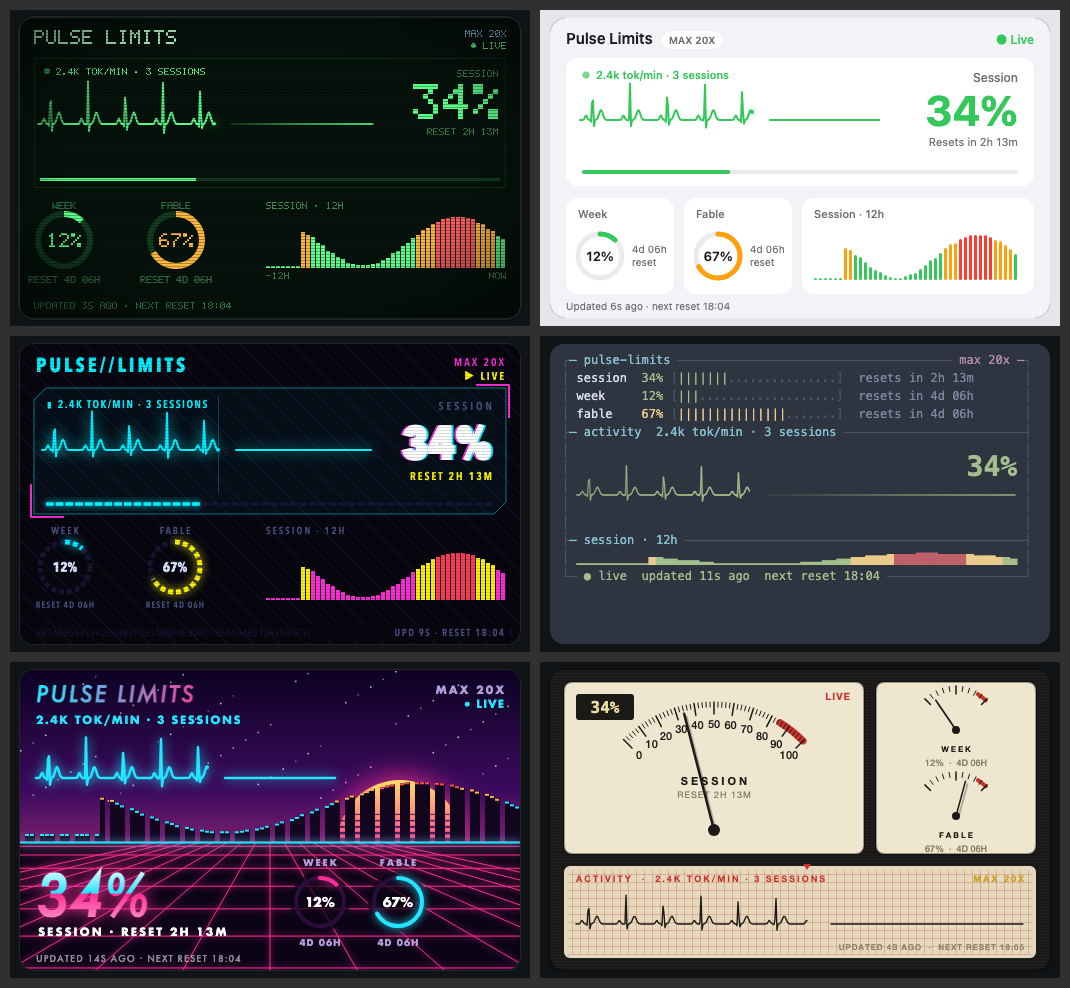
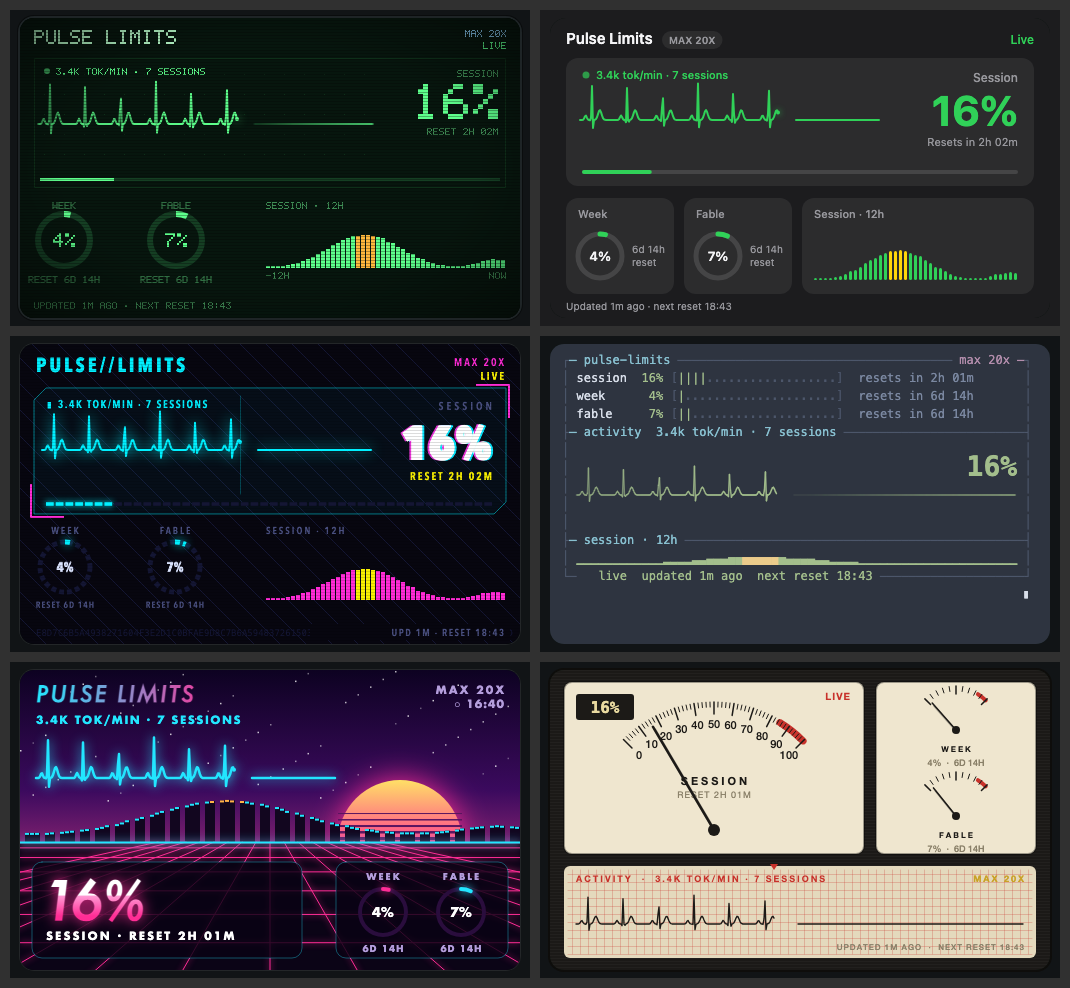
docs: README with screenshots; synth theme readouts on panels

diff --git a/panel.html b/panel.html
@@ -487,19 +487,26 @@
     const lab = activityLabel();
     if (lab !== null) txt(lab, 16, 54, '600 11px ' + F, busy() ? P.cyan : P.lav, 'left', 1.5);
 
-    const big = alive ? sessionPct + '%' : '--', bf = 'italic 900 56px ' + F;
-    const cg = ctx.createLinearGradient(0, 196, 0, 250); cg.addColorStop(0, '#ffffff'); cg.addColorStop(.5, P.cyan); cg.addColorStop(.52, P.pink); cg.addColorStop(1, '#ff8ac8');
-    ctx.shadowColor = P.pink; ctx.shadowBlur = 18; txt(big, 16, 246, bf, cg); ctx.shadowBlur = 0;
-    txt(alive ? 'SESSION · ' + resetText(session) : 'NO SIGNAL', 18, 266, '600 11px ' + F, alive ? P.white : '#ff4d4d', 'left', 2);
-    others.slice(0, 3).forEach((wd, i) => {
-      const cx = W - 200 + i * 78, cy = 232, pct = Math.round(wd.pct);
-      ctx.fillStyle = 'rgba(11,4,22,.7)'; ctx.beginPath(); ctx.arc(cx, cy, 30, 0, Math.PI * 2); ctx.fill();
-      ring(cx, cy, 24, pct, { track: '#2a0d3d', color: i % 2 ? P.cyan : P.pink, width: 4, cap: 'round', glow: 8 });
-      txt(pct + '%', cx, cy + 5, '700 13px ' + F, P.white, 'center');
-      txt(wd.label, cx, cy - 36, '600 9px ' + F, P.lav, 'center', 2);
-      txt(span(resetMs(wd)), cx, cy + 44, '600 9px ' + F, P.lav, 'center', 1);
-    });
-    txt(alive ? 'UPDATED ' + short(ageSec()) + ' AGO · NEXT RESET ' + nextReset() : (D.hint || ''), 16, H - 8, '500 9px ' + F, 'rgba(255,255,255,.55)', 'left', 1);
+    // readouts sit on dark glass panels so the grid never runs through the numbers
+    const panel = (x, y, w, h) => { ctx.fillStyle = 'rgba(8,2,20,.82)'; rr(x, y, w, h, 10); ctx.fill(); ctx.strokeStyle = 'rgba(34,230,255,.35)'; ctx.lineWidth = 1; ctx.stroke(); };
+    panel(12, 192, 270, 96);
+    const big = alive ? sessionPct + '%' : '--', bf = 'italic 900 52px ' + F;
+    const cg = ctx.createLinearGradient(0, 200, 0, 246); cg.addColorStop(0, '#ffffff'); cg.addColorStop(.55, '#ffffff'); cg.addColorStop(.56, '#ff9ad4'); cg.addColorStop(1, P.pink);
+    ctx.shadowColor = P.pink; ctx.shadowBlur = 14; txt(big, 24, 250, bf, cg); ctx.shadowBlur = 0;
+    txt(alive ? 'SESSION · ' + resetText(session) : 'NO SIGNAL', 26, 270, '600 11px ' + F, alive ? P.white : '#ff4d4d', 'left', 2);
+    if (!alive && D.hint) txt(D.hint, 26, 280, '500 9px ' + F, P.lav, 'left', 1);
+    const shown = others.slice(0, 3);
+    if (shown.length) {
+      const pw = shown.length * 78 + 16, px0 = W - 12 - pw;
+      panel(px0, 192, pw, 96);
+      shown.forEach((wd, i) => {
+        const cx = px0 + 8 + 39 + i * 78, cy = 242, pct = Math.round(wd.pct);
+        ring(cx, cy, 23, pct, { track: '#2a0d3d', color: i % 2 ? P.cyan : P.pink, width: 4, cap: 'round', glow: 8 });
+        txt(pct + '%', cx, cy + 5, '700 13px ' + F, P.white, 'center');
+        txt(wd.label, cx, cy - 32, '600 9px ' + F, P.lav, 'center', 2);
+        txt(span(resetMs(wd)), cx, cy + 40, '600 9px ' + F, P.lav, 'center', 1);
+      });
+    }
   }};
 
   // ---- 6. ANALOG: VU meters and a chart recorder ---------------------------------------------

diff --git a/README.md b/README.md
@@ -1,158 +1,170 @@
-# PulseLimits
+<p align="center">
+  <img src="docs/crt.png" width="660" alt="PulseLimits, CRT theme: a phosphor-green patient monitor showing a heartbeat, the session percentage, week and model rings, and a 12-hour trend">
+</p>
 
-Your Claude plan limits in the macOS menu bar, as a retro patient monitor.
-The ECG's heart rate is your session usage: an idle account beats at ~50 BPM,
-a maxed-out one races at ~180. One Bash script and one HTML file, driven by
-SwiftBar. No app of its own, no account, no server.
+<h1 align="center">PulseLimits</h1>
 
-    63% ◔                <- menu bar: the 5-hour window, battery-style
+<p align="center">
+  Your Claude plan limits in the macOS menu bar, as a retro patient monitor.<br>
+  The heartbeat is live: it races while Claude Code is streaming and slows when it idles.
+</p>
 
-Left-click opens the monitor in a borderless popover. Right-click opens a
-plain text fallback menu.
+<p align="center">
+  <img src="docs/menubar.png" width="140" alt="Menu bar item: 16% and a ring">
+</p>
+
+```sh
+brew install dnacenta/tap/pulse-limits && pulse-limits install
+```
+
+A [SwiftBar](https://github.com/swiftbar/SwiftBar) plugin. No account, no server, no
+tracking. It reuses the login Claude Code already keeps in your Keychain, and the
+only thing that ever leaves your Mac is the one request Claude Code itself makes
+when you type `/usage`.
+
+## What you get
+
+**In the menu bar**: the 5-hour window as a number and a ring, battery-style.
+Green, amber from 60 %, red from 85 %.
+
+**On click**, a monitor:
+
+- **A heartbeat that means something.** Its rate follows what Claude Code is doing
+  right now, measured from the transcripts it writes locally: output tokens per
+  minute across every open session, and how long since anything happened.
+  `3.4K TOK/MIN · 7 SESSIONS` with a racing trace, or `IDLE 45M` with a slow one.
+- **The session window** as a big number, its reset countdown, and a bar.
+- **The other windows** as rings: the week, plus any per-model weekly cap your
+  plan carries.
+- **A 12-hour trend** of the session window, so you can see when you burned it.
+- **Live while open.** The panel refreshes every minute as long as it is on
+  screen and says `● LIVE` when the reading is under two minutes old.
+- **Honest when it cannot know.** Stale data turns amber and says how old it is.
+  No data is a flat line with `NO SIGNAL`.
+
+Right-click for a plain text menu and the theme switcher.
 
 ## Themes
 
-Right-click the menu bar item, open **THEME**, pick one. The choice is
-saved in `~/.config/pulse-limits/theme` (or `./pulse-limits.5m.sh --theme
-synth` from a terminal). The data and the animation are shared.
+Six looks, same data. Right-click the menu bar item, open **THEME**, pick one.
 
-- `crt`     phosphor patient monitor, scanlines, 5x7 pixel font (default)
-- `modern`  a macOS widget: system font, cards, follows light/dark mode
-- `cyber`   neon HUD: chamfered panels, chromatic-aberration digits, hex stream
-- `term`    a Nord-palette TUI: box drawing, `[|||...]` meters, block-char trend
-- `synth`   synthwave: sunset, perspective grid, the trend as a skyline
-- `analog`  VU meter and round gauges on cream dials, chart-recorder strip
-            (no trend in this one)
+| CRT | Modern | Analog |
+|:---:|:---:|:---:|
+| <img src="docs/crt.png" width="300" alt="CRT theme"> | <img src="docs/modern.png" width="300" alt="Modern theme"> | <img src="docs/analog.png" width="300" alt="Analog theme"> |
+| Phosphor monitor, scanlines, 5x7 pixel font | A macOS widget, follows light and dark mode | VU meter, round gauges, chart-recorder strip |
 
-Preview any of them without SwiftBar by adding `?theme=<name>` before the
-`#` in the page URL (see the last section).
+<p align="center">
+  <img src="themes-preview.png" width="700" alt="All six themes: crt, modern, cyber, term, synth, analog">
+</p>
 
-## What the monitor shows
-
-- **Session panel**: the heartbeat on the left, its rate set by what Claude
-  Code is doing right now: `2.4K TOK/MIN · 3 SESSIONS` and a fast beat while
-  replies are streaming, `IDLE 45M` and a slow one when nothing is going on.
-  The big percentage and reset countdown on the right; a bar along the
-  bottom filled to the same percentage. Green, amber from 60 %, red from
-  85 %. Amber when the data is stale, a flat line with `NO SIGNAL` when
-  there is none.
-- **Rings**: one per remaining window (WEEK, plus any per-model weekly cap
-  the plan carries), percentage inside, reset countdown under it.
-- **Trend**: the last 12 hours of session usage, one bar per ~20 minutes.
-- **Footer**: when the data was fetched, the next reset, extra-usage credits
-  once you have spent any, and the error with the age of the last good
-  reading when something is wrong.
-
-## How it works
-
-1. `security find-generic-password -s "Claude Code-credentials" -w` reads the
-   OAuth token Claude Code already keeps in your Keychain. The same item
-   carries `subscriptionType` and `rateLimitTier`, which is where the plan
-   label comes from.
-2. One `GET https://api.anthropic.com/api/oauth/usage` with that bearer token
-   and the header `anthropic-beta: oauth-2025-04-20`. This is the call behind
-   `/usage` in Claude Code. It is undocumented, so it can change without
-   notice; when it does the monitor shows an error instead of wrong numbers.
-3. The JSON is cached in `~/.cache/pulse-limits/usage.json`, and every live
-   reading appends a row to `history.tsv` for the trend strip. Live calls are
-   at most one per 90 s; the plugin re-runs every 5 min.
-4. The script packs the numbers as base64 JSON into the URL fragment of
-   `panel.html` and writes that URL to `~/.cache/pulse-limits/panel.url`.
-   The page reads `location.hash`, draws everything on a canvas, and
-   animates the trace. Countdowns tick live in the page.
-   While the panel is open the helper runs `pulse-limits.5m.sh --payload`
-   on show and every 60 s (a fresh fetch, JSON only, throttled to one call
-   per 20 s) and hands the result to `window.pulse.usage(...)`, so the
-   numbers update in place and the header says `● LIVE` whenever the
-   reading is under two minutes old. The API is only polled that often
-   while you are looking.
-5. `bin/pulse-menubar` draws the menu bar item as one image, text then ring,
-   like the battery indicator: 2x PNG, one per menu bar appearance, put on
-   the title line with `image=… width=W height=18`. Without it the title
-   falls back to plain text.
-6. A click runs `open-monitor.sh`, which shows `bin/pulse-popover`: a
-   small Swift program with one WKWebView in a borderless, non-activating
-   panel under the mouse. It hides on a click outside, Escape, or a second
-   click on the icon. It stays resident, page unloaded, so the next click
-   shows it in ~50 ms instead of the ~400 ms WebKit needs to start; after
-   10 idle minutes it exits (`PULSE_IDLE_EXIT` seconds to change). The
-   launcher toggles it with SIGUSR1. SwiftBar's own webview popover would
-   do the job too but paints a "SwiftBar: pulse-limits" title bar that
-   cannot be turned off; if the helper is not built the script falls back
-   to it automatically.
-7. Activity comes from the transcripts Claude Code writes under
-   `~/.claude/projects/*/*.jsonl`: output tokens of assistant lines stamped
-   in the last minute, deduplicated by message id (a streaming reply is
-   written several times), plus seconds since any transcript was touched.
-   The helper measures it every 2 s while the panel is open and pushes it
-   into the page; `pulse-popover --activity` prints one sample, which the
-   plugin embeds as the initial value. About 30 ms per sample.
-8. The plugin declares `runInBash=false`, so SwiftBar executes the script
-   and the launcher directly. Its default is `zsh -l -c …`, which loads
-   your login profile (nvm, brew shellenv) on every run and every click,
-   about half a second here.
-
-The token is never written anywhere. The only network traffic is that one GET.
-
-Claude Code refreshes the token roughly hourly while it runs. If it has not
-run for a while the token expires, the API answers 401, and the monitor turns
-amber with `TOKEN EXPIRED`. Open Claude Code once and it heals. Refreshing
-the token from here is deliberately not done: rotating it behind Claude
-Code's back could log Claude Code out.
+Also **cyber** (neon HUD with chromatic-aberration digits), **term** (a Nord-palette
+TUI with `[|||...]` meters) and **synth** (sunset, perspective grid, the trend as a
+city skyline).
 
 ## Install
 
-One line, with Homebrew (once the repo is public):
+You need macOS, [Homebrew](https://brew.sh), the Xcode Command Line Tools, and a
+Claude Code login (run `claude` once).
 
-    brew install dnacenta/tap/pulse-limits && pulse-limits install
+**Homebrew** (recommended):
 
-Or the installer script, which also installs jq and SwiftBar if missing:
+```sh
+brew install --cask swiftbar          # if you do not have SwiftBar yet
+brew install dnacenta/tap/pulse-limits
+pulse-limits install
+```
 
-    curl -fsSL https://raw.githubusercontent.com/dnacenta/pulse-limits/main/install.sh | bash
+**One-line installer**, which also installs jq and SwiftBar if they are missing:
 
-Either way you need macOS, Homebrew, the Xcode Command Line Tools (the two
-helpers are compiled on your machine, ~10 s) and a Claude Code login in the
-Keychain: run `claude` once. The installer is safe to re-run; it updates in
-place. `./install.sh --uninstall` or `pulse-limits uninstall` removes it.
+```sh
+curl -fsSL https://raw.githubusercontent.com/dnacenta/pulse-limits/main/install.sh | bash
+```
 
-By hand:
+**By hand:**
 
-    git clone https://github.com/dnacenta/pulse-limits.git
-    cd pulse-limits && ./build.sh && ./pulse-limits install
+```sh
+git clone https://github.com/dnacenta/pulse-limits.git
+cd pulse-limits && ./build.sh && ./pulse-limits install
+```
+
+`./build.sh` compiles the two small Swift helpers (about ten seconds). Every path
+is safe to re-run and updates in place. Remove with `pulse-limits uninstall`.
 
 ## The `pulse-limits` command
 
-    pulse-limits install       link the plugin into SwiftBar and start it
-    pulse-limits uninstall     unlink it, drop cache and settings
-    pulse-limits theme NAME    crt | modern | cyber | term | synth | analog
-    pulse-limits refresh       force a live fetch now
-    pulse-limits open          show or hide the monitor
-    pulse-limits status        print the current reading as JSON
+```
+pulse-limits install       link the plugin into SwiftBar and start it
+pulse-limits uninstall     unlink it, drop cache and settings
+pulse-limits theme NAME    crt | modern | cyber | term | synth | analog
+pulse-limits refresh       force a live fetch now
+pulse-limits open          show or hide the monitor
+pulse-limits status        print the current reading as JSON
+```
 
-SwiftBar's own menu is hidden by the plugin metadata; manage it from the
-terminal (`pkill SwiftBar`, `open -a SwiftBar`,
-`open "swiftbar://refreshallplugins"`).
+## How it works
+
+Everything is a Bash script, one HTML file, and two tiny Swift programs.
+
+1. **Credentials.** `security find-generic-password -s "Claude Code-credentials"`
+   reads the OAuth token Claude Code stores in your Keychain. The same item
+   carries your plan tier, which is where the `MAX 20X` badge comes from.
+2. **Usage.** One `GET https://api.anthropic.com/api/oauth/usage` with that token.
+   It is the call behind `/usage` in Claude Code. It is undocumented, so it may
+   change without notice; when it does, the monitor shows an error instead of a
+   wrong number.
+3. **Activity.** Claude Code writes every turn to `~/.claude/projects/*/*.jsonl`.
+   The helper sums the output tokens of assistant lines stamped in the last
+   minute, deduplicated by message id because a streaming reply is written
+   several times, and notes when any transcript was last touched. About 30 ms.
+4. **The page.** The script packs the numbers as base64 JSON into the URL
+   fragment of `panel.html`. The page reads it, draws everything on a canvas,
+   and animates the trace. Countdowns tick in the page.
+5. **The popover.** `bin/pulse-popover` is a borderless, non-activating panel
+   with one WKWebView, shown under the mouse. It stays resident for ten idle
+   minutes so the next click is instant, pushes fresh activity every two
+   seconds and fresh usage every minute while visible, and exits on its own.
+   SwiftBar's built-in webview popover would work too but paints a title bar
+   that cannot be turned off; the script falls back to it if the helper is
+   missing.
+6. **The menu bar image.** `bin/pulse-menubar` renders the number and the ring
+   as one 2x PNG in the system menu bar font, one per menu bar appearance.
+
+The plugin declares `runInBash=false` so SwiftBar executes it directly. Its
+default wraps every run and click in `zsh -l -c`, which loads your login
+profile each time, half a second on a machine with nvm.
+
+Claude Code refreshes the token roughly hourly while it runs. If it has not
+run for a while, the API answers 401 and the monitor turns amber with
+`TOKEN EXPIRED`. Open Claude Code once and it heals. Refreshing the token from
+here is deliberately not done: rotating it behind Claude Code's back could log
+Claude Code out.
+
+## Privacy
+
+- The token is read from the Keychain on each run and never written anywhere.
+- The only network traffic is the usage request to `api.anthropic.com`.
+- Transcripts are read locally for token counts and timestamps only; their
+  content is never parsed beyond the `usage` field.
+- Cache and settings live in `~/.cache/pulse-limits` and `~/.config/pulse-limits`.
 
 ## Tuning
 
-Top of `pulse-limits.5m.sh`: `MIN_INTERVAL`, `HISTORY_HOURS`, popover size.
-Top of the script in `panel.html`: the palette `C`, the `tone` thresholds,
-the BPM mapping in `bpmNow()` (40 idle, 60 + 60·log10(1 + tok/100) busy,
-capped at 180), trace speed, and the ECG shape (a sum of five gaussians:
-P, Q, R, S, T). Rename the script to change the cadence
-(`pulse-limits.2m.sh`, etc.).
+Top of `pulse-limits.5m.sh`: the live-call throttle, trend depth, popover size.
+In `panel.html`: each theme's palette, the tone thresholds (60 % amber, 85 % red),
+the BPM mapping in `bpmNow()`, and the ECG shape (a sum of five gaussians: P, Q,
+R, S, T). Rename the script to change the cadence (`pulse-limits.2m.sh`).
 
-Force a live call: Option-click the header of the right-click menu, or run
-`./pulse-limits.5m.sh --reset`.
+Preview a theme without SwiftBar:
 
-## Preview without SwiftBar
+```sh
+npx playwright screenshot --viewport-size=520,316 --wait-for-timeout=1500 \
+  "file://$PWD/panel.html?theme=synth#$(printf '%s' '{"plan":"MAX 20X","source":"LIVE","status":"","hint":"","fetched":0,"history":[],"windows":[{"label":"SESSION","pct":63,"resets":null}],"credits":null,"activity":{"tok_per_min":1200,"idle_s":2,"sessions":1}}' | base64)" out.png
+```
 
-    npx playwright screenshot --viewport-size=520,316 --wait-for-timeout=1500 \
-      "file://$PWD/panel.html?theme=synth#$(printf '%s' '{"plan":"MAX 20X","source":"LIVE","status":"","hint":"","fetched":0,"history":[],"windows":[{"label":"SESSION","pct":63,"resets":null}],"credits":null,"activity":{"tok_per_min":1200,"idle_s":2,"sessions":1}}' | base64)" out.png
-
-`attic/claude64.5m.sh` is the earlier Commodore 64 text-only version.
+`attic/claude64.5m.sh` is where this started: a Commodore 64 boot screen in
+plain text.
 
 ## License
 
 GNU Affero General Public License v3.0 or later. Copyright (C) 2026 Daniel Nacenta.
-See `LICENSE`.
+See [LICENSE](LICENSE).
